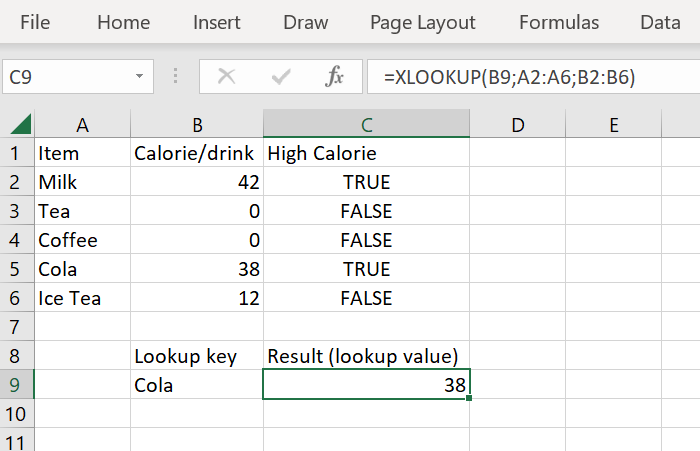
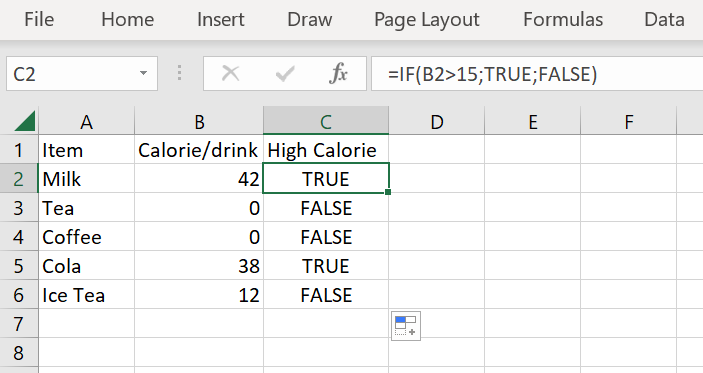
nesting

diff --git a/excel/excel_08_data_analysis.md b/excel/excel_08_data_analysis.md
@@ -151,6 +151,25 @@ Or the example that we have seen before:
 *<sub>Figure 13: Another array function with a multiple cell output.</sub>*
 
 
+## Nesting functions
+
+It is possible to nest functions. Although this is ligit in some cases, be aware that this becomes very complex easily.
+
+Example:
+
+```
+=IF(AVERAGE(A1:A3)>5.5;SUM(B1:B3);"Insufficient")
+```
+
+![array](./pics_08_data_analysis/fig14.png)
+*<sub>Figure 14: Nesting functions.</sub>*
+
+![array](./pics_08_data_analysis/fig15.png)
+*<sub>Figure 15: Nesting functions.</sub>*
+
+>Nested functions are hard to read. It is often better to split up nested functions in different cells.
+
+
 ## Examples of useful functions
 
 There are more than 300 functions in Excel. Fortunately, there are online recources that you can use to select functions.
@@ -165,15 +184,15 @@ Here is a small selection of some useful functions:
 
 The IF function is one of the most popular functions in Excel, and it allows you to make logical comparisons between a value and what you expect.
 
-![if](./pics_08_data_analysis/fig14.png)
-*<sub>Figure 14: The IF function.</sub>*
+![if](./pics_08_data_analysis/fig16.png)
+*<sub>Figure 16: The IF function.</sub>*
 
 ### COUNTIF
 
 COUNTIF can be used to count the number of cells that meet a criterion; for example, to count the number of times a high caloric beverage appears in a list.
 
-![countif](./pics_08_data_analysis/fig15.png)
-*<sub>Figure 15: The COUNTIF function.</sub>*
+![countif](./pics_08_data_analysis/fig17.png)
+*<sub>Figure 17: The COUNTIF function.</sub>*
 
 There is also a COUNTIFS function for multiple arrays and conditions.
 
@@ -181,12 +200,13 @@ There is also a COUNTIFS function for multiple arrays and conditions.
 
 The XLOOKUP function searches a range or an array, and then returns the item corresponding to the first match it finds. 
 
-![xlookup](./pics_08_data_analysis/fig16.png)
-*<sub>Figure 16: The XLOOKUP function.</sub>*
+![xlookup](./pics_08_data_analysis/fig18.png)
+*<sub>Figure 18: The XLOOKUP function.</sub>*
 
 So the XLOOKUP function checks the position of a lookup key and returns the corresponding value.
 
 These are just some examples. Use the online resources or the recommended Excel book to find more useful functions.
+
 
 ## Statistics
 
